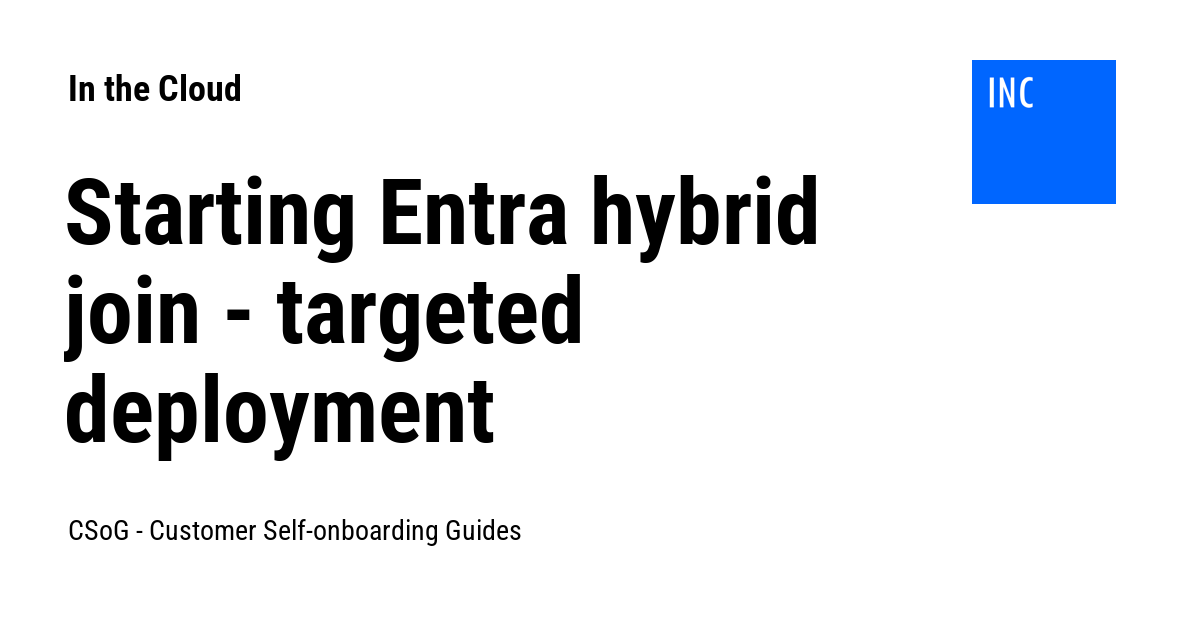
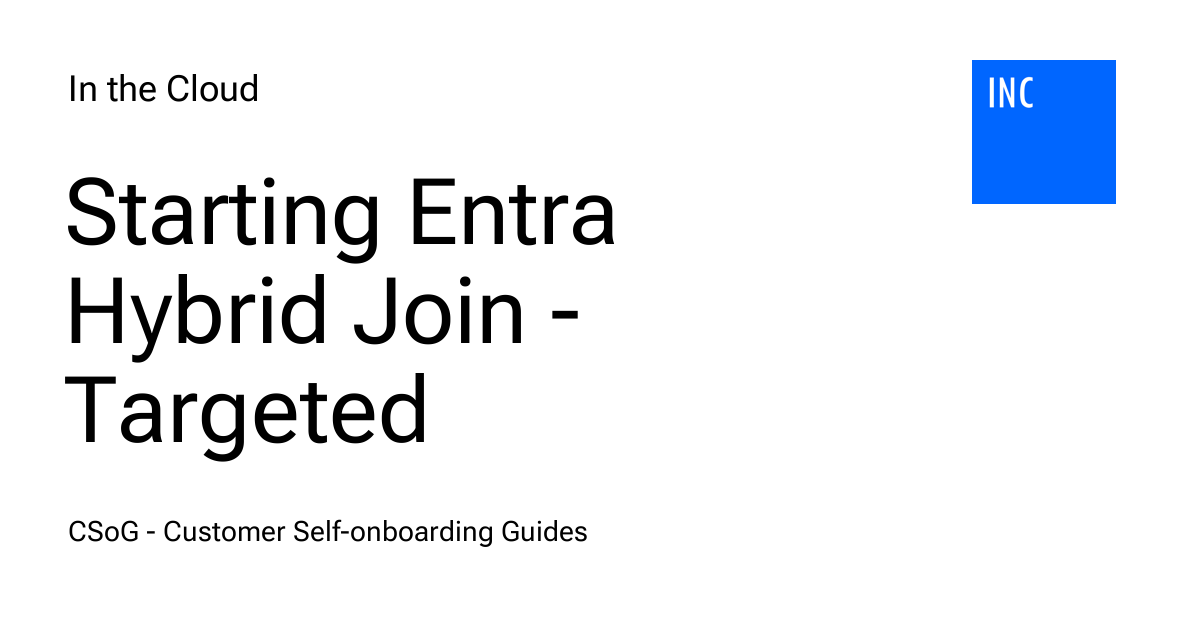
Deployed a15a251 with MkDocs version: 1.6.1

Changed region(s): [[0.0308, 0.2714, 0.6783, 0.754], [0.0617, 0.8143, 0.4933, 0.8746], [0.0617, 0.1206, 0.2158, 0.181]]

diff --git a/entra/hbj/index.html b/entra/hbj/index.html
@@ -22,7 +22,7 @@
     
     
       
-        <title>Starting Entra hybrid join - targeted deployment - In the Cloud</title>
+        <title>Starting Entra Hybrid Join - Targeted deployment - In the Cloud</title>
       
     
     
@@ -59,7 +59,7 @@
       
         <meta  property="og:type"  content="website" >
       
-        <meta  property="og:title"  content="Starting Entra hybrid join - targeted deployment - In the Cloud" >
+        <meta  property="og:title"  content="Starting Entra Hybrid Join - Targeted deployment - In the Cloud" >
       
         <meta  property="og:description"  content="CSoG - Customer Self-onboarding Guides" >
       
@@ -75,7 +75,7 @@
       
         <meta  name="twitter:card"  content="summary_large_image" >
       
-        <meta  name="twitter:title"  content="Starting Entra hybrid join - targeted deployment - In the Cloud" >
+        <meta  name="twitter:title"  content="Starting Entra Hybrid Join - Targeted deployment - In the Cloud" >
       
         <meta  name="twitter:description"  content="CSoG - Customer Self-onboarding Guides" >
       
@@ -133,7 +133,7 @@
         <div class="md-header__topic" data-md-component="header-topic">
           <span class="md-ellipsis">
             
-              Starting Entra hybrid join - targeted deployment
+              Starting Entra Hybrid Join - Targeted deployment
             
           </span>
         </div>
